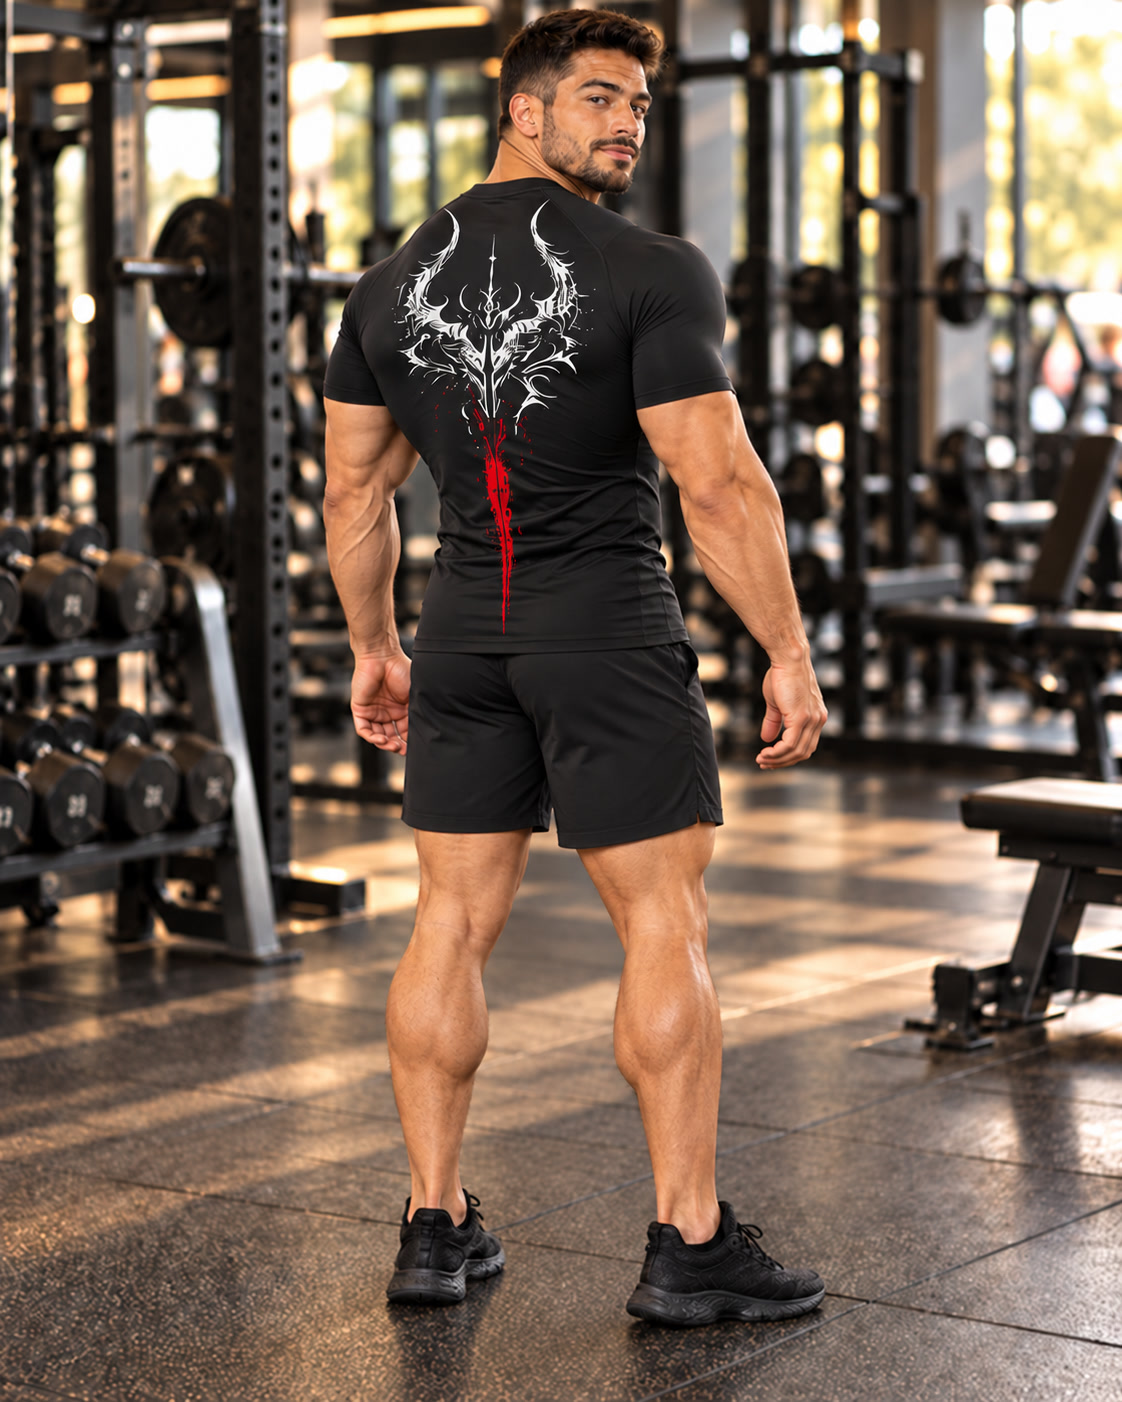
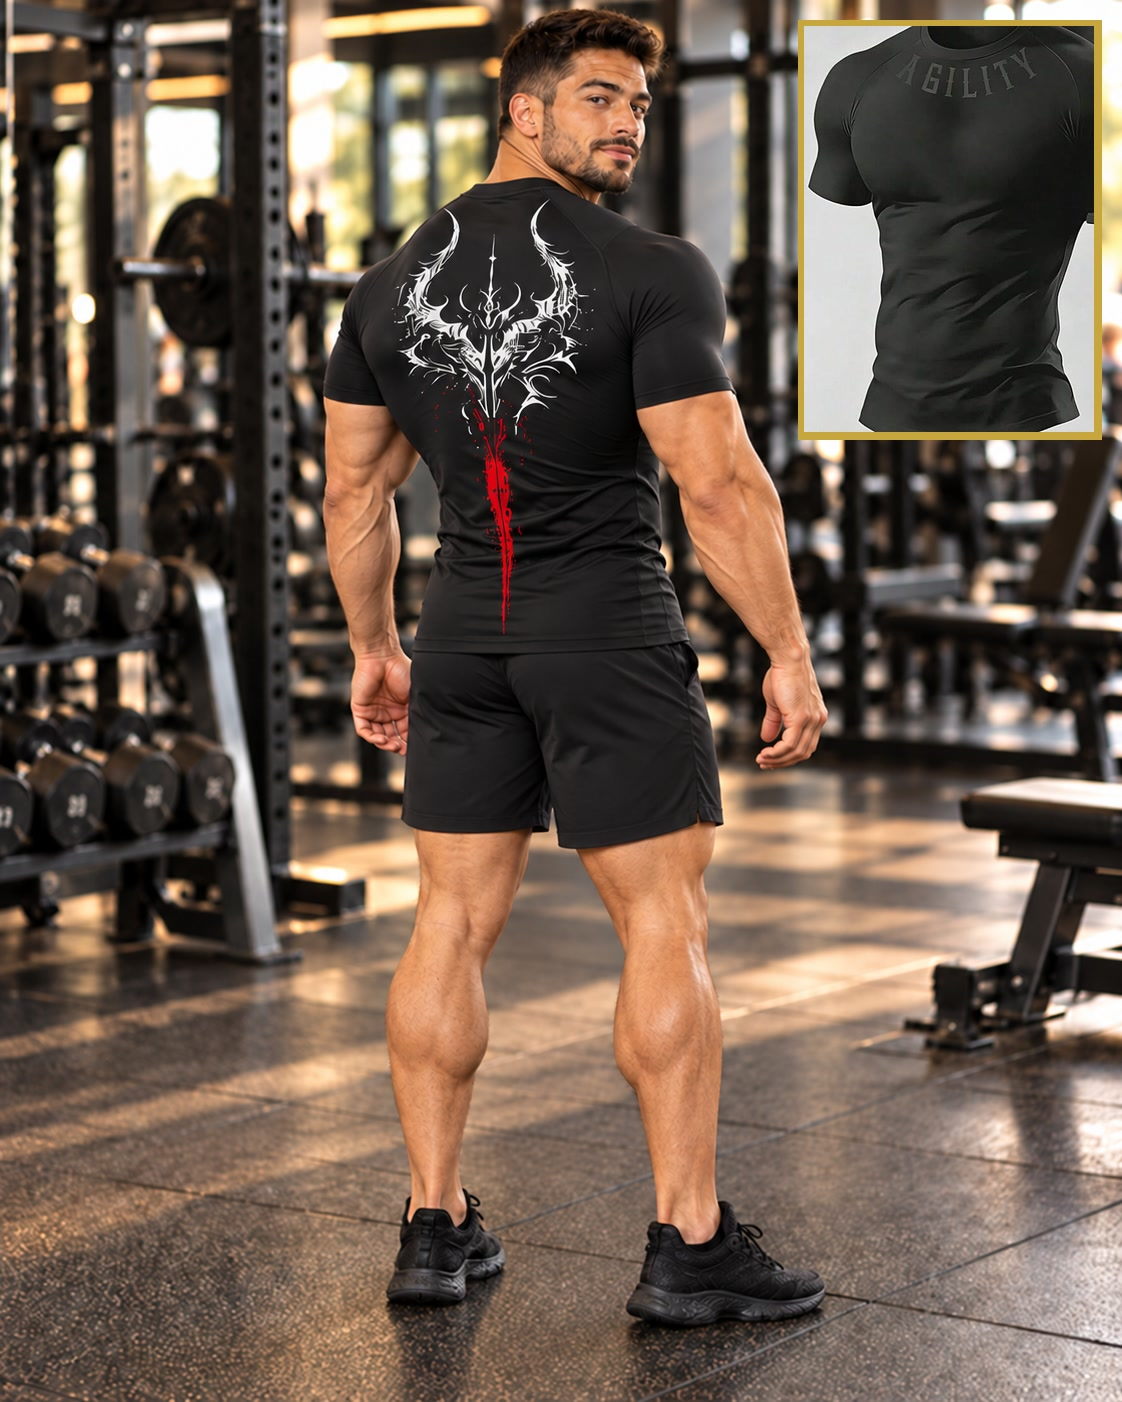
Tienda: polera de compresión con cuadro de frente
Claude-Session: https://claude.ai/code/session_013ZgZPSRHEDhMsqmx8Km842

Changed region(s): [[0.6863, 0.0, 0.9982, 0.3374], [0.4367, 0.3067, 0.4679, 0.4294]]

diff --git a/tienda.html b/tienda.html
@@ -221,7 +221,7 @@ function hoyISO(){ return new Intl.DateTimeFormat("en-CA", { timeZone:"America/S
 function ahoraTxt(){ var f = new Intl.DateTimeFormat("sv-SE", { timeZone:"America/Santiago", year:"numeric", month:"2-digit", day:"2-digit", hour:"2-digit", minute:"2-digit" }).format(new Date()); return f.replace("T", " ").slice(0, 16); }
 function normTxt(s){ return String(s || "").toUpperCase().normalize("NFD").replace(/[̀-ͯ]/g, ""); }
 /* Al cambiar una foto en img/tienda/ (mismo nombre), subir FOTO_V para que los teléfonos no muestren la antigua. */
-var FOTO_V = "22";
+var FOTO_V = "23";
 function fotoUrl(f){ return f ? f + (f.indexOf("?") < 0 ? "?v=" + FOTO_V : "") : ""; }
 function iconoCat(c){ var x = CATS.filter(function(k){ return k[0] === c; })[0]; return x ? x[1] : "📦"; }
 function toast(t, ms){ var el = $("toast"); el.textContent = t; el.style.display = "block"; clearTimeout(toast.t); toast.t = setTimeout(function(){ el.style.display = "none"; }, ms || 2600); }
@@ -303,7 +303,7 @@ setInterval(function(){ if(pend.length) enviarPendientes(); }, 30000);
    el computador"): los datos se vuelven a pedir a la planilla cada 30 s mientras la página está a la vista (sin una ficha
    abierta), y cada minuto se revisa tienda-version.txt: si hay una versión nueva de la página, se recarga sola.
    Cada vez que se cambie tienda.html, subir TIENDA_VERSION y tienda-version.txt juntos (AAAAMMDDNN). */
-var TIENDA_VERSION = "2026102513";
+var TIENDA_VERSION = "2026102514";
 setInterval(function(){ if(clave && !document.hidden && $("velo").hidden && !$("app").hidden) enviarPendientes().then(function(){ cargar(true); }); }, 30000);
 function revisarVersion(){
  fetch("tienda-version.txt?t=" + Date.now(), { cache:"no-store" }).then(function(r){ return r.ok ? r.text() : ""; }).then(function(v){

diff --git a/CLAUDE.md b/CLAUDE.md
@@ -1533,7 +1533,7 @@ Versión 23). Celular y compu ven el mismo inventario.
   guardado como «Ropa deportiva» se muestra como «Ropa mujer»; en los enlaces usar `cat=Ropa%20mujer` o `cat=Ropa%20hombre`).
   Ropa deportiva de mujer (24-10-2026): cada talla y color es un producto aparte con su código 200… (la ropa no trae
   código). Conjunto Gym Work 3 piezas blanco/negro M ($13.609 → $22.000; foto de espaldas con la modelo + cuadro con la foto original del conjunto, en 900 px de alto), Short scrunch M.Minute negro S (foto `img/tienda/short-scrunch-negro.jpg`, con modelo + cuadro de espalda) y azul oscuro S (foto `img/tienda/short-scrunch-azul.jpg`, igual)
-  (pack de 2 por $7.512 → $3.756 c/u, venta $9.000), Conjunto Easithlete negro M ($8.568; foto con la modelo + cuadro de la espalda, 900 px), Leggings Yefecy negro M ($11.001 → $16.000; foto con modelo de frente + cuadro de espalda), Conjunto Easithlete a $15.000; short negro a $10.000. Ropa de hombre: Polera «Stronger every day» negra M ($7.204 → $13.000; modelo hombre de espaldas + cuadro de frente), Polera Rise LYT raglán negra M ($6.701 → $14.000; modelo hombre de espaldas + cuadro de frente; adelante el diseño de espinas ancho; atrás uno distinto, grande, con alas arriba y una punta larga por la columna), Polera Gym Rark «Never give up» negra M ($7.793 → $15.000; modelo de espaldas + cuadro de frente con el toro), Polera de compresión Gym Rark negra M ($7.051 → $13.000; modelo de espaldas: cuernos blancos grandes + franja roja larga por la columna), Polera «This is my therapy» negra L ($7.323 → $14.000), Musculosa «//Strength» blanca y negra M ($8.000 → $11.000; foto con modelo hombre de ChatGPT), Musculosa «Boston EST.1997» gris M ($8.000 → $12.000), Musculosa Batman blanca M ($8.000 → $11.000). Ropa mujer: Polera Cherry rosada crop S ($3.000 → $6.000) y Polera tie-dye negra y blanca crop S ($2.000 → $5.000), Calza flare camuflaje S-M ($7.000 → $10.000; modelo con el camuflaje verde oliva real + cuadro de espalda), Calza leopardo con malla S ($8.000 → $12.000; modelo de frente + cuadro de espalda hecho en ChatGPT), Calza tie-dye azul y amarilla M ($8.000 → $11.000; foto con modelo de lado + cuadro de frente); fotos con modelo hechas por la dueña en ChatGPT. Suplementos en pausa.
+  (pack de 2 por $7.512 → $3.756 c/u, venta $9.000), Conjunto Easithlete negro M ($8.568; foto con la modelo + cuadro de la espalda, 900 px), Leggings Yefecy negro M ($11.001 → $16.000; foto con modelo de frente + cuadro de espalda), Conjunto Easithlete a $15.000; short negro a $10.000. Ropa de hombre: Polera «Stronger every day» negra M ($7.204 → $13.000; modelo hombre de espaldas + cuadro de frente), Polera Rise LYT raglán negra M ($6.701 → $14.000; modelo hombre de espaldas + cuadro de frente; adelante el diseño de espinas ancho; atrás uno distinto, grande, con alas arriba y una punta larga por la columna), Polera Gym Rark «Never give up» negra M ($7.793 → $15.000; modelo de espaldas + cuadro de frente con el toro), Polera de compresión Gym Rark negra M ($7.051 → $13.000; modelo de espaldas: cuernos blancos grandes + franja roja larga por la columna; cuadro con la polera de frente «AGILITY» de la foto de la tienda), Polera «This is my therapy» negra L ($7.323 → $14.000), Musculosa «//Strength» blanca y negra M ($8.000 → $11.000; foto con modelo hombre de ChatGPT), Musculosa «Boston EST.1997» gris M ($8.000 → $12.000), Musculosa Batman blanca M ($8.000 → $11.000). Ropa mujer: Polera Cherry rosada crop S ($3.000 → $6.000) y Polera tie-dye negra y blanca crop S ($2.000 → $5.000), Calza flare camuflaje S-M ($7.000 → $10.000; modelo con el camuflaje verde oliva real + cuadro de espalda), Calza leopardo con malla S ($8.000 → $12.000; modelo de frente + cuadro de espalda hecho en ChatGPT), Calza tie-dye azul y amarilla M ($8.000 → $11.000; foto con modelo de lado + cuadro de frente); fotos con modelo hechas por la dueña en ChatGPT. Suplementos en pausa.
   Bebestibles en pausa hasta que llegue más mercadería. Un enlace `?nuevo=1` con un código que ya existe abre ese producto (aunque cambie el nombre). **En los enlaces, todo carácter no ASCII va codificado (á → %C3%A1)**: el de la polera Rise LYT llevaba «raglán» sin codificar, el chat volvió a codificar el enlace y el producto quedó «Polera%20Rise…» en Bebestibles; desde el 24-10-2026 `sinPorcentajes` decodifica los parámetros y `repararCodificados` arregla y vuelve a guardar los nombres que quedaron con %XX.
   **Todo se actualiza solo (24-10-2026, la dueña: "si hago una modificación en el celular, que se cambie igual en el
   computador"):** los datos se piden a la planilla cada 30 s si la página está a la vista y sin ficha abierta, y cada
